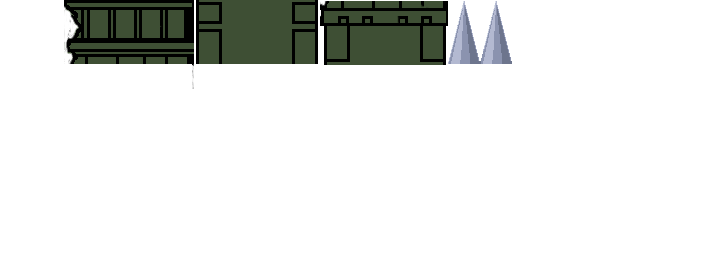
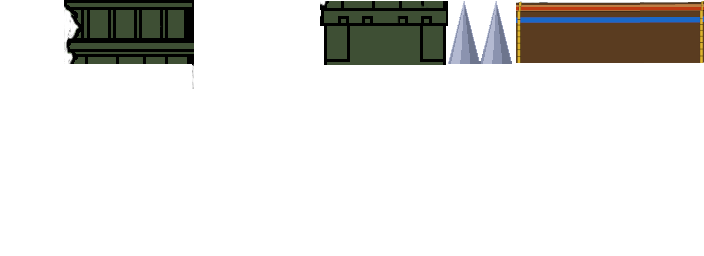
Setup LightPost sprite -WIP and tileArt for area2

Changed region(s): [[0.7188, 0.0, 1.0, 0.25], [0.2812, 0.0, 0.4688, 0.25]]

diff --git a/scripts/BaseScene.js b/scripts/BaseScene.js
@@ -103,6 +103,12 @@ export default class BaseScene extends Phaser.Scene {
       "assets/Artwork/Environment/Items/powerupArmor.png",
       { frameWidth: 64, frameHeight: 64 }
     );
+
+    this.load.spritesheet(
+      "lightPost",
+      "assets/Artwork/Environment/Levels/IntroScene/LightPostSpriteSheet.png",
+      { frameWidth: 620, frameHeight: 380 }
+    );
     // ENEMIES
     this.load.spritesheet(
       "killerBee",
@@ -250,6 +256,21 @@ export default class BaseScene extends Phaser.Scene {
     
     powerupArmor.anims.play('powerupArmor1');
     return powerupArmor;
+   
+  }
+
+  lightPostAnimation() {
+    var lightPost;
+    lightPost = this.physics.add.group();
+
+    var lightPost = lightPost
+      .create(620, 380, "lightPost")
+      .setScale(.5)
+      .setDirectControl()
+      .setImmovable();
+    
+    lightPost.anims.play('lightPostAnimation');
+    return lightPost;
    
   }
 
@@ -428,6 +449,17 @@ export default class BaseScene extends Phaser.Scene {
       frameRate: 5,
       repeat: -1,
     });
+
+    this.anims.create({
+      key: "lightPost",
+      frames: this.anims.generateFrameNumbers("lightPost", {
+        start: 0,
+        end: 1,
+      }),
+      frameRate: 5,
+      repeat: -1,
+    });
+
 
     /*
      this.anims.create({

diff --git a/scripts/Level1.js b/scripts/Level1.js
@@ -23,6 +23,7 @@ export default class Level1 extends BaseScene {
         [ 0, 1, 2, 0, 7, 7, 0, 0, 0, 0, 0 ],
         [ 0, 0, 0, 0, 0, 0, 0, 0, 0, 0, 0 ]
     ];
+  
     this.building();
     const map = this.make.tilemap({ data: level, tileWidth: 64, tileHeight: 64 });
     const tiles = map.addTilesetImage('tileArt');
@@ -40,6 +41,7 @@ export default class Level1 extends BaseScene {
     
     // this.spikes(); Now going to become part of tilemap.
     this.powerupArmor();
+    this.lightPostAnimation();
 
     // this.boss1();
 
